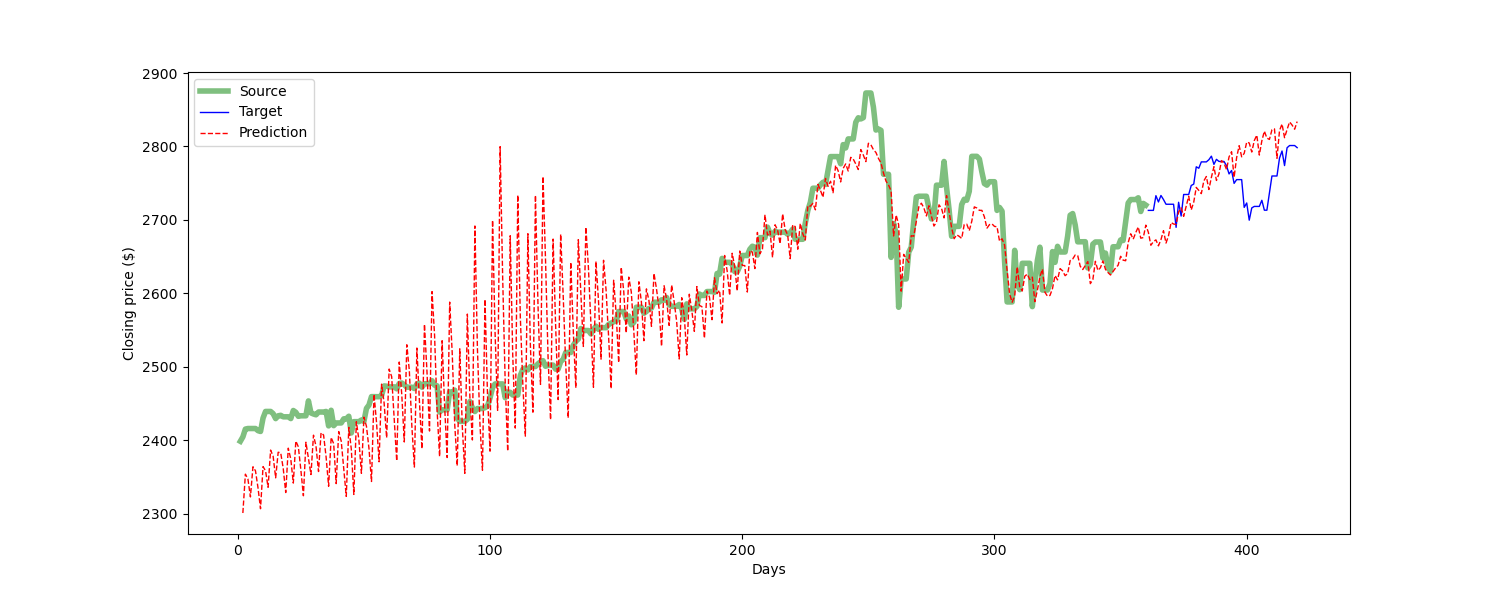
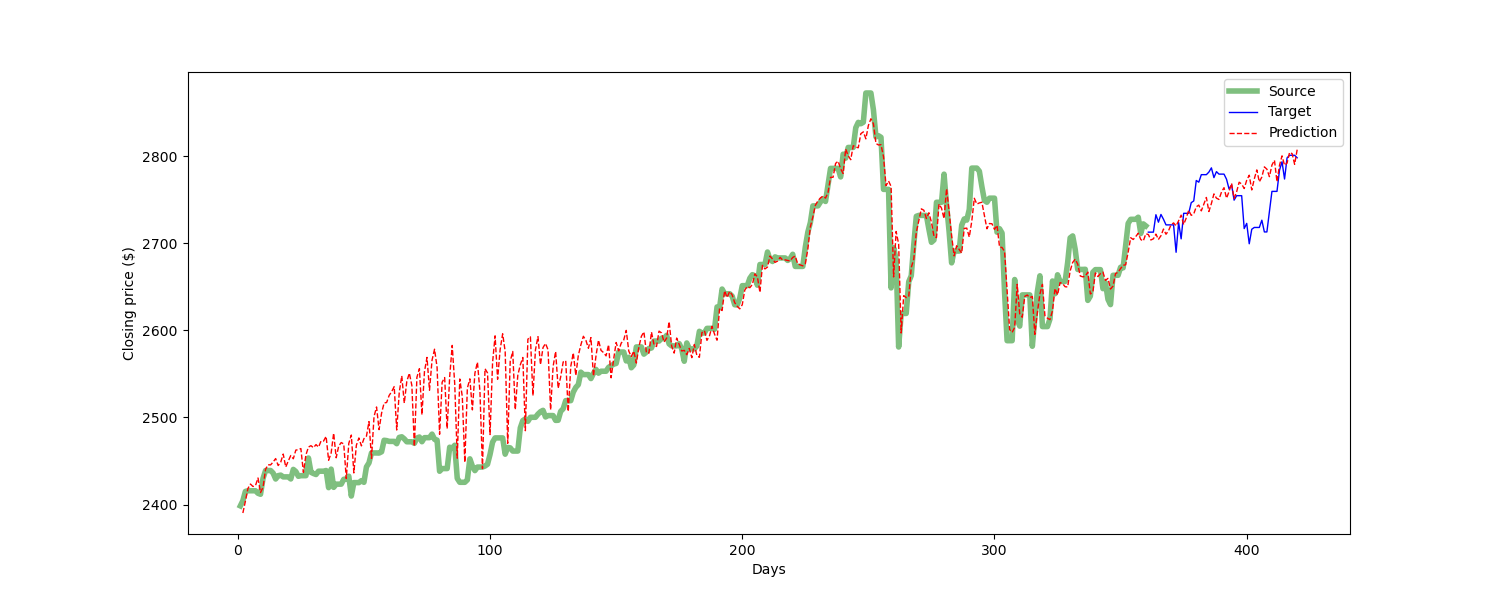
fixed test functions

diff --git a/test.py b/test.py
@@ -8,11 +8,11 @@ def test(device, model, dl, forecast_len, scaler, max_num=40, save_path=None):
     
     with torch.no_grad():
         for j, (src, trg, class_idx) in enumerate(dl):
-            _, window_len, _ = src.shape
-            if j == max_num or j % window_len != 0:
-                break
+            if j % max_num != 0:
+                continue
             class_idx = class_idx[0].item()
             src, trg = src.to(device), trg.to(device)
+            _, window_len, _ = src.shape
             out = model(src)
             plot_predictions(src[0:1, :, :].cpu(), trg[0:1, :, :].cpu(), out[0:1, :, :].cpu(), scaler, forecast_len, class_idx, j, save_path)
 
@@ -23,12 +23,13 @@ def test2(device, model, dl, forecast_len, scaler, max_num=40, save_path=None):
     
     with torch.no_grad():
         for j, (input, trg, class_idx) in enumerate(dl):
+            if j % max_num != 0:
+                continue
+            
             class_idx = class_idx[0].item()
             src = input[:, :-1, :]
             src, trg = src.to(device), trg.to(device)
             _, window_len, _ = src.shape
-            if j == max_num or j % window_len != 0:
-                break
             prediction = torch.zeros((window_len + forecast_len - 1, trg.shape[2]))
             first = True
             current_src = src
@@ -51,14 +52,15 @@ def test_std(device, model, dl, forecast_len, scaler, max_num=40, save_path=None
     
     with torch.no_grad():
         for j, (input, trg_y, class_idx) in enumerate(dl):
+            if j % max_num != 0:
+                continue
+            
             class_idx = class_idx[0].item()
             src = input[:, :-1, :]
             trg = input[:, 1:, :]
             src, trg, trg_y = src.to(device), trg.to(device), trg_y.to(device)
             trg_y = trg_y[:, -forecast_len:, :]
             _, window_len, _ = src.shape
-            if j == max_num or j % window_len != 0:
-                break
             prediction = torch.zeros((window_len + forecast_len - 1, trg.shape[2]))
             first = True
             current_src = src

diff --git a/main.py b/main.py
@@ -15,7 +15,7 @@ yahoo_dataset_path = "datasets/yahoo_stock.csv"
 predictions_path = "predictions/"
 training_results_path = "training_results/"
 
-model_type = "transformer"
+model_type = "decoder_v2"
 
 if model_type == "transformer":
 
@@ -80,7 +80,7 @@ elif model_type == "decoder_v2":
     device = 'cuda' if torch.cuda.is_available() else 'cpu'
     batch_size = 1
     learning_rate = 0.001
-    num_epochs = 10
+    num_epochs = 1
     window_len = 360
     forecast_len = 60
     input_size = 5
